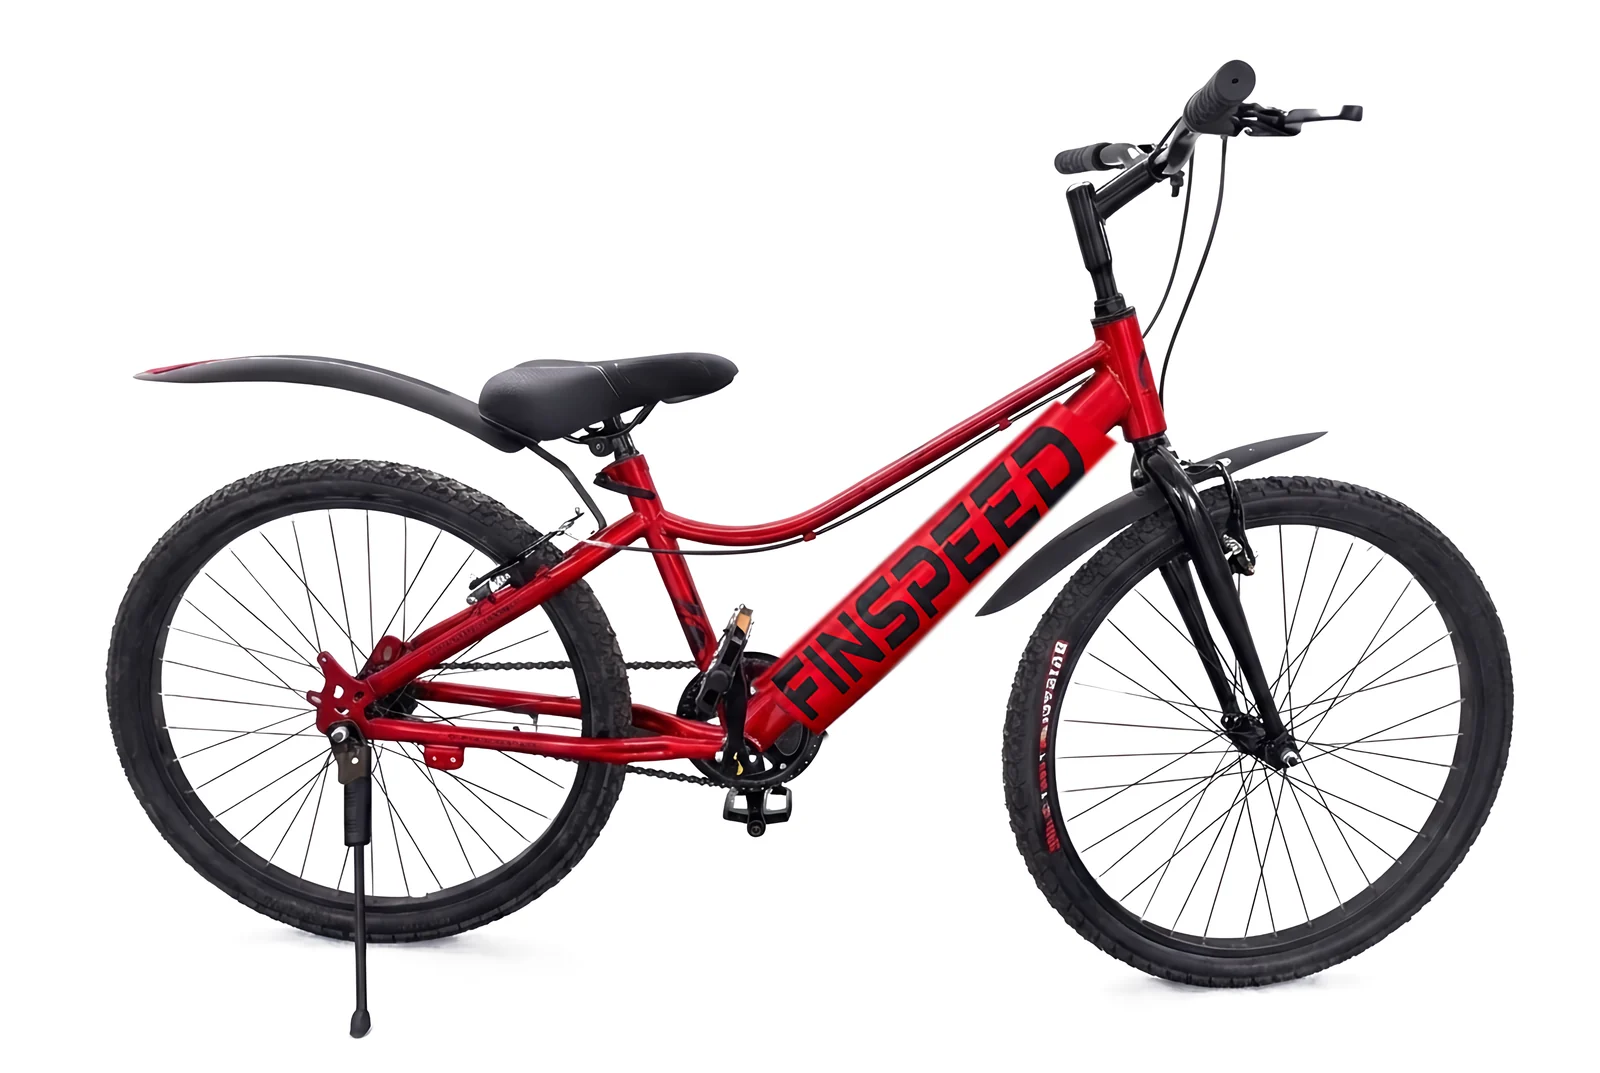
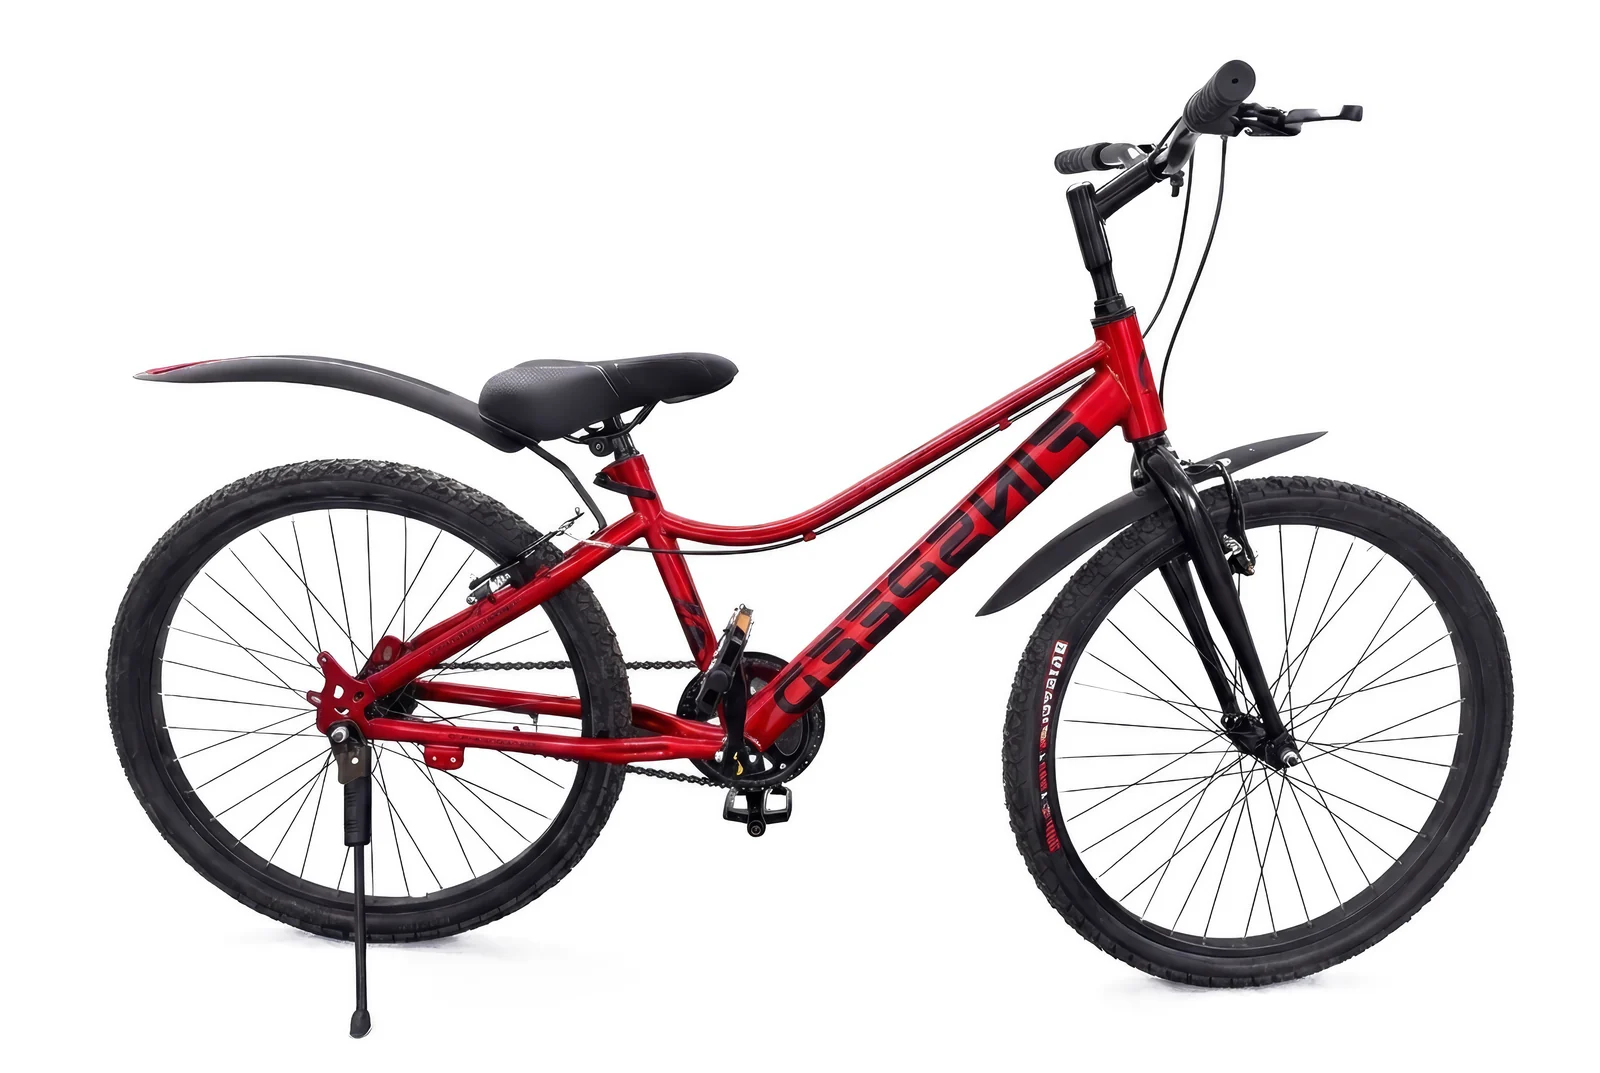
WEB-032: use updated Red Snapper product master

Changed region(s): [[0.4688, 0.3691, 0.7188, 0.7074]]

diff --git a/scripts/build-upscaled-web-assets.py b/scripts/build-upscaled-web-assets.py
@@ -37,7 +37,7 @@ PRODUCT_SOURCES = {
     "lemon-shark": "01-raster-masters-4x/products/lemon-shark/angle-3.png",
     "lightning-marlin": "01-raster-masters-4x/products/lightning-marlin/angle-2.png",
     "mako-shark": "01-raster-masters-4x/products/mako-shark/angle-2.png",
-    "red-snapper": "01-raster-masters-4x/products/red-snapper/angle-1.png",
+    "red-snapper": "01-raster-masters-4x/products/red-snapper/side-clean.png",
     "sea-breeze": "01-raster-masters-4x/products/sea-breeze/angle-1.png",
     "shark-blue": "01-raster-masters-4x/products/shark-blue/angle-1.png",
     "sunset-marlin": "01-raster-masters-4x/products/sunset-marlin/angle-1.png",

diff --git a/design-qa.md b/design-qa.md
@@ -1,52 +1,41 @@
-# Design QA - WEB-031 responsive product imagery
+# Design QA - WEB-032 updated Red Snapper master
 
 ## Comparison target
 
-- Source visual truth: `C:\Users\SunderamTripathi\OneDrive - Archetype Consulting\_Archive\Documents\Picture upscale\outputs\delivery\Finspeed-Upscaled-Final\04-qa-and-documentation\production-overview.png`
[1 lines of base64/hex data omitted]
-- Implementation route: `http://127.0.0.1:3100/shop`
-- Viewports: 1440 x 900 desktop and 390 x 844 mobile.
-- State: light catalog pages 1 and 2; Mako Shark product detail in light and dark themes.
+- Source visual truth: `C:\Users\SunderamTripathi\OneDrive - Archetype Consulting\_Archive\Documents\Picture upscale\outputs\delivery\Finspeed-Upscaled-Final\01-raster-masters-4x\products\red-snapper\side-clean.png`
+- Implementation: `http://127.0.0.1:3100/shop` page 2 and `http://127.0.0.1:3100/products/red-snapper`
+- Viewport: 1440 x 900
+- State: dark theme; catalog page 2 and product detail
 
 ## Evidence
 
-- Full-view catalog: `specs/proofs/web/WEB-031/artefacts/after/shop-side-profile-desktop-1440x900.png`
-- Full-view page 2: `specs/proofs/web/WEB-031/artefacts/after/shop-side-profile-page-2-desktop-1440x900.png`
-- Focused lower row: `specs/proofs/web/WEB-031/artefacts/after/shop-side-profile-page-2-lower-desktop-1440x900.png`
-- Mobile: `specs/proofs/web/WEB-031/artefacts/after/shop-side-profile-mobile-390x844.png`
-- Product detail light: `specs/proofs/web/WEB-031/artefacts/after/product-detail-side-profile-desktop-1440x900.png`
-- Product detail dark: `specs/proofs/web/WEB-031/artefacts/after/product-detail-side-profile-dark-desktop-1440x900.png`
-- Browser interaction and console proof: `specs/proofs/web/WEB-031/logs/browser-qa.md`
+- Full catalog context: `specs/proofs/web/WEB-032/artefacts/after/red-snapper-card-desktop-1440x900.png`
+- Focused product-detail context: `specs/proofs/web/WEB-032/artefacts/after/red-snapper-detail-desktop-1440x900.png`
+- Browser/source-selection proof: `specs/proofs/web/WEB-032/logs/browser-qa.md`
 
-The production overview and the final catalog screenshots were opened together in one comparison input. The page-2 upper and lower captures provide focused evidence because they make the remaining five product silhouettes readable at card scale.
+The source master, catalog screenshot, and product-detail screenshot were opened together in one comparison input. The product-detail view is the focused comparison because the bicycle occupies enough of the image well to inspect frame geometry, wordmark treatment, wheel edges, cables, fenders, kickstand, crop, and compression.
 
 ## Findings
 
-- No actionable P0, P1, or P2 product-image findings remain.
-- Image quality and asset fidelity: all 11 products use verified high-resolution delivery masters and responsive WebP derivatives. The selected sources form the closest available side-profile family without altering product geometry, branding, drivetrain, wheels, or colorways.
-- Spacing and layout rhythm: the existing card grid, image wells, product scale, and whitespace remain unchanged. Images are fully framed and do not overlap or clip at either viewport.
-- Fonts and typography: the existing display/body/mono hierarchy and wrapping are preserved. The dark product-title token regression found during pass 1 is fixed.
-- Colors and visual tokens: catalog wells remain neutral white for reliable product comparison. Light/dark semantic text tokens now keep the product title readable without changing the imagery.
-- Copy and content: product names, series, prices, labels, and descriptions remain unchanged.
-- Responsiveness: desktop and 390-pixel mobile layouts preserve the product silhouette and readable catalog hierarchy.
-- P3 accepted source constraint: Sunset Marlin remains mildly three-quarter because its delivery contains only two three-quarter views. `angle-1` is the less distorted and closest side-facing source; generating a replacement would risk changing the product.
+- No actionable P0, P1, or P2 findings.
+- Image quality and asset fidelity: the implementation preserves the exact supplied Red Snapper subject, red frame, black components, updated down-tube treatment, and near-side profile. The WebP derivatives remain sharp without halos or masking artefacts.
+- Spacing and layout rhythm: the existing image wells, card dimensions, gallery scale, margins, and responsive `object-fit: contain` treatment are unchanged. The bicycle is fully framed.
+- Fonts and typography: product name, series, price, description, ratings, labels, and control typography remain unchanged and readable.
+- Colors and tokens: the new source retains the supplied red/black/white product palette; the dark storefront tokens and white product well remain unchanged.
+- Copy and content: no product copy or commercial data changed.
+- Accessibility and behavior: the image retains the `Red Snapper` alt text; catalog pagination works; product-detail controls remain present; browser console errors are empty.
 
 ## Comparison history
 
-- Pass 1: the catalog comparison confirmed consistent side-profile selection, but dark-theme product-detail QA exposed an invisible Mako Shark title (`--ink-900` on the dark page). Result blocked by one P2 color-token issue.
-- Fix: the product title, section headings, and related-product names in `ProductDetail.jsx` now use semantic `--text-strong`.
-- Pass 2: the final dark capture shows the title in white (`rgb(255, 255, 255)`), all product images remain unchanged, source selection is correct, and the console is clean. No P0/P1/P2 findings remain.
+- Pass 1: the exact new source and both rendered contexts match without an actionable P0/P1/P2 difference. No visual fix iteration was required.
 
 ## Implementation checklist
 
-- [x] Compare every available product angle in the delivery overview.
-- [x] Select the closest available side profile per product rather than relying on filename order.
-- [x] Verify all 11 cards across both catalog pages.
-- [x] Verify desktop and mobile responsive source selection.
-- [x] Verify product-detail image selection in light and dark themes.
-- [x] Fix the dark-theme semantic title token found during QA.
-- [x] Verify pagination, theme toggle, semantic names, and console errors.
-
-Residual test gap: the standalone Playwright accessibility/regression suite was not run under the selected-browser constraint. This does not leave a visible design mismatch in the tested flow.
+- [x] Resolve the newer supplied Red Snapper master.
+- [x] Verify the source hash against the delivery manifest.
+- [x] Regenerate 480, 960, and 1600 px WebP derivatives.
+- [x] Verify catalog and product-detail browser source selection.
+- [x] Compare source, catalog, and detail images together.
+- [x] Verify console, lint, and production build.
 
 final result: passed

diff --git a/specs/proofs/web/WEB-032/README.md b/specs/proofs/web/WEB-032/README.md
@@ -1,0 +1,40 @@
+# WEB-032 Proof - Updated Red Snapper product master
+
+## Outcome
+
+Red Snapper now uses the supplied `side-clean.png` cycle master in its catalog card, product-detail gallery, related products, search, cart, checkout, account, and distributor thumbnails through the existing shared responsive product-image mapping.
+
+RESULT (local): PASS
+RESULT (production): NOT DEPLOYED
+
+## Source and outputs
+
+- Source: `01-raster-masters-4x/products/red-snapper/side-clean.png`
[5 lines of base64/hex data omitted]
+
+The delivery manifest changed with the newer Red Snapper master. Only the three Red Snapper derivatives, their provenance records, the delivery-manifest provenance hash, and the deterministic source mapping changed in the application. All other generated asset hashes remain stable.
+
+## Verification
+
+- Asset/provenance verification: `logs/asset-verification.md` - PASS.
+- In-app browser QA: `logs/browser-qa.md` - PASS.
+- ESLint: `logs/lint.md` - exit 0, 0 errors, 42 existing warnings.
+- Next production build: `logs/build.md` - exit 0.
+- Design QA: project-root `design-qa.md` - `final result: passed`.
+- Production status: `logs/production-status.md` - unchanged.
+
+## Acceptance review
+
+- [x] New Red Snapper source verified against the delivery manifest
+- [x] Responsive 480/960/1600 WebPs regenerated
+- [x] Catalog card selects the 480 px derivative
+- [x] Product detail selects the 960 px derivative at 1440 x 900
+- [x] Product remains fully framed and sharp in both contexts
+- [x] Layout, copy, price, controls, and other product assets remain unchanged
+- [x] Browser console is clean
+- [x] Lint and production build pass
+- [x] Production remains unchanged pending separate authorization

diff --git a/specs/notes/plans/web/WEB-032.md b/specs/notes/plans/web/WEB-032.md
@@ -1,0 +1,21 @@
+# Plan - WEB-032
+
+## Goal
+
+Replace only the Red Snapper storefront imagery with the newer supplied `side-clean.png` product master while preserving the current layout, content, interactions, and every other product asset.
+
+## Steps
+
+1. Verify the new source against the supplied delivery manifest.
+2. Update the deterministic product-source mapping and regenerate responsive derivatives and provenance.
+3. Verify catalog and product-detail rendering in the in-app browser.
+4. Run lint, production build, slice guard, proof, and commit checks.
+5. Record that production remains unchanged unless separately authorized.
+
+## Checklist
+
+- [x] Source verified
+- [x] Responsive derivatives regenerated
+- [x] Catalog and product-detail browser QA passed
+- [x] Lint and production build passed
+- [x] Proof committed and slice parked

diff --git a/specs/proofs/web/WEB-032/logs/browser-qa.md b/specs/proofs/web/WEB-032/logs/browser-qa.md
@@ -1,0 +1,21 @@
+# Browser QA
+
+Result: PASS
+
+Browser: Codex in-app Browser
+Viewport: 1440 x 900
+Theme: dark
+
+## Evidence
+
+- Catalog page 2: `../artefacts/after/red-snapper-card-desktop-1440x900.png`
+- Product detail: `../artefacts/after/red-snapper-detail-desktop-1440x900.png`
+
+## Checks
+
+- Catalog pagination to page 2 works and exposes the Red Snapper card.
+- Catalog image completed and selected `red-snapper-480.webp`.
+- Product-detail image completed and selected `red-snapper-960.webp`.
+- The complete bicycle, wheels, handlebar, fenders, and kickstand remain visible without clipping.
+- Existing product name, series, price, rating, description, specifications, colour swatches, quantity, cart, and buy controls remain unchanged.
+- Browser console error log is empty.

diff --git a/specs/proofs/web/WEB-032/logs/asset-verification.md b/specs/proofs/web/WEB-032/logs/asset-verification.md
@@ -1,0 +1,13 @@
+# Asset verification
+
+Result: PASS
+
+- Provenance records: 53
+- Existing output/hash/byte-size matches: 53
+- Local HTTP output/hash/byte-size matches: 53
+- Total payload across all responsive variants: 5,375,516 bytes
[2 lines of base64/hex data omitted]
+- New Red Snapper output matches: 3 of 3
+
+The deterministic generator verified the selected source against `DELIVERY-MANIFEST.json` before encoding.

diff --git a/AGENTS/slices/WEB-032.md b/AGENTS/slices/WEB-032.md
@@ -1,0 +1,10 @@
+# Slice Supplement - WEB-032
+
+Title: Updated Red Snapper product master
+Domain: web
+
+Scope:
+- Replace the Red Snapper source mapping with the supplied `side-clean.png` master.
+- Regenerate only deterministic asset derivatives and provenance affected by that source change.
+- Preserve the product card, detail layout, content, behavior, and all other catalog imagery.
+- Record local proof; do not deploy without separate authorization.

diff --git a/specs/proofs/web/WEB-032/logs/build.md b/specs/proofs/web/WEB-032/logs/build.md
@@ -1,0 +1,10 @@
+# Production build
+
+Command: `npm run build -w web`
+
+Result: PASS (exit 0)
+
+- Next.js 16.2.10 compiled successfully.
+- TypeScript passed.
+- Page data collection passed.
+- Twelve static/dynamic routes completed.

diff --git a/specs/proofs/web/WEB-032/logs/lint.md b/specs/proofs/web/WEB-032/logs/lint.md
@@ -1,0 +1,9 @@
+# ESLint
+
+Command: `npm run lint -w web`
+
+Result: PASS (exit 0)
+
+- Errors: 0
+- Warnings: 42 existing warnings
+- WEB-032 changes no linted application source.

diff --git a/specs/proofs/web/WEB-032/logs/production-status.md b/specs/proofs/web/WEB-032/logs/production-status.md
@@ -1,0 +1,3 @@
+# Production status
+
+Production was not changed by WEB-032. No AWS, Amplify, domain, or deployment action was initiated.
